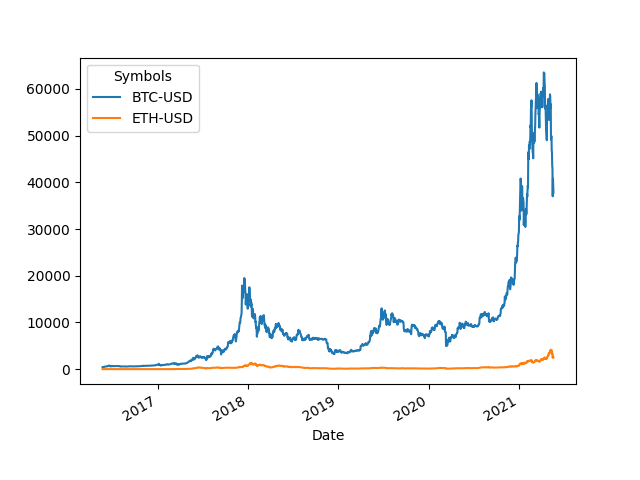
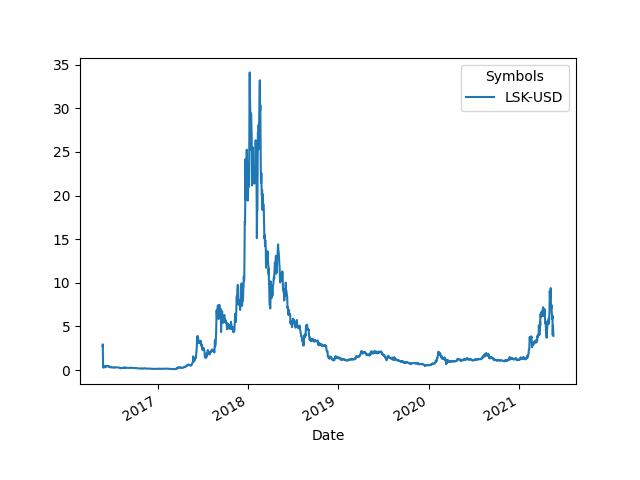
Finished favourites buttons

diff --git a/MenuScreen.py b/MenuScreen.py
@@ -11,7 +11,6 @@ CURRENCIES = ["BTC", "ETH", "XRP", "DASH", "DOGE"]
 COLOR_MY_BUTTON_CLICKED = (232 / 255, 159 / 255, 0, 1)
 COLOR_MY_BUTTON_NOT_CLICKED = (0.4, 0.4, 0.4, 1)
 
-crypto_buttons = []
 time_buttons = []
 
 
@@ -57,6 +56,7 @@ class DateTextInput(TextInput):
 class MenuScreen(Screen):
     def __init__(self, **kwargs):
         super(MenuScreen, self).__init__(**kwargs)
+        self.crypto_buttons = []
 
         # Creating crytpo currencies buttons
         for c in CURRENCIES:
@@ -66,8 +66,8 @@ class MenuScreen(Screen):
                 size_hint=(1, 0.05),
                 size_hint_min_y=20
             )
-            self.ids.layout_buttons.add_widget(temp_button)
-            crypto_buttons.append(temp_button)
+            self.ids.layout_currency_buttons.add_widget(temp_button)
+            self.crypto_buttons.append(temp_button)
 
         # Creating time buttons
         week_button = TimeButton(
@@ -111,7 +111,7 @@ class MenuScreen(Screen):
 
         time_range_button = TimeButton(
             time="range",
-            text="Przedział użytkownika",
+            text="Wybrany przedział",
             on_press=self.time_button_press,
         )
         self.ids.layout_time_range.add_widget(time_range_button)
@@ -136,7 +136,7 @@ class MenuScreen(Screen):
     # Resfresh chart image
     def refresh_chart(self):
         active_cryptos = []
-        for b in crypto_buttons:
+        for b in self.crypto_buttons:
             if b.pressed:
                 active_cryptos.append(b.text)
 
@@ -177,6 +177,24 @@ class MenuScreen(Screen):
         if active_cryptos:
             Chart.create_chart(active_cryptos, end, start)
             self.ids.image_chart.reload()
+
+    # Refreshes currency buttons list
+    def refresh_currency_buttons(self):
+        self.ids.layout_currency_buttons.clear_widgets()
+        self.crypto_buttons.clear()
+        favourites = self.manager.get_screen('favourites')
+
+        for s in favourites.switches:
+            children = s.children
+            if children[0].active:
+                temp_button = MyButton(
+                    text=children[1].text,
+                    on_press=crypto_button_press,
+                    size_hint=(1, 0.05),
+                    size_hint_min_y=20
+                )
+                self.ids.layout_currency_buttons.add_widget(temp_button)
+                self.crypto_buttons.append(temp_button)
 
 
 # Cryptocrurrency button on press

diff --git a/FavouritesScreen.py b/FavouritesScreen.py
@@ -1,6 +1,59 @@
+from kivy.uix.anchorlayout import AnchorLayout
+from kivy.uix.gridlayout import GridLayout
+from kivy.uix.label import Label
 from kivy.uix.screenmanager import Screen
+from kivy.uix.switch import Switch
+from kivy.graphics import Color, Rectangle
+
+CURRENCIES = []
+
+COLOR_ORANGE = (232 / 255, 159 / 255, 0, 1)
+COLOR_LIGHT_GREY = (0.4, 0.4, 0.4, 1)
+
+
+# Layout for label and switch
+class SwitchLayout(GridLayout):
+    def __init__(self, code, color, **kwargs):
+        super(SwitchLayout, self).__init__(**kwargs)
+        self.cols = 2
+        label = Label(text=code, bold=True)
+        self.add_widget(label)
+        self.add_widget(Switch())
+
+        self.bind(size=self.update_rect, pos=self.update_rect)
+
+        with self.canvas.before:
+            Color(color[0], color[1], color[2], color[3])
+            self.rect = Rectangle(size=self.size, pos=self.pos)
+
+    @staticmethod
+    def update_rect(instance, value):
+        instance.rect.pos = instance.pos
+        instance.rect.size = instance.size
 
 
 class FavouritesScreen(Screen):
     def __init__(self, **kwargs):
         super(FavouritesScreen, self).__init__(**kwargs)
+        self.switches = []
+
+        # Read currencies from file
+        with open("configs/currencies.txt") as f:
+            for line in f:
+                CURRENCIES.append(line[:-1])
+
+        orange = 0
+        # Create switches
+        for c in CURRENCIES:
+            if orange < 3:
+                sw = SwitchLayout(c, COLOR_ORANGE)
+                self.ids.layout_switches.add_widget(sw)
+                self.switches.append(sw)
+                orange += 1
+            else:
+                sw = SwitchLayout(c, COLOR_LIGHT_GREY)
+                self.ids.layout_switches.add_widget(sw)
+                self.switches.append(sw)
+                orange += 1
+                if orange == 6:
+                    orange = 0

diff --git a/Chart.py b/Chart.py
@@ -8,6 +8,8 @@ class Chart:
     def create_chart(cls, cryptos, start, end):
         for i in range(len(cryptos)):
             cryptos[i] += "-USD"
-
-        df = pdr.get_data_yahoo(cryptos, start, end)['Close']
-        df.plot().get_figure().savefig('images/chart.png')
+        try:
+            df = pdr.get_data_yahoo(cryptos, start, end)['Close']
+            df.plot().get_figure().savefig('images/chart.png')
+        except ValueError:
+            pass
